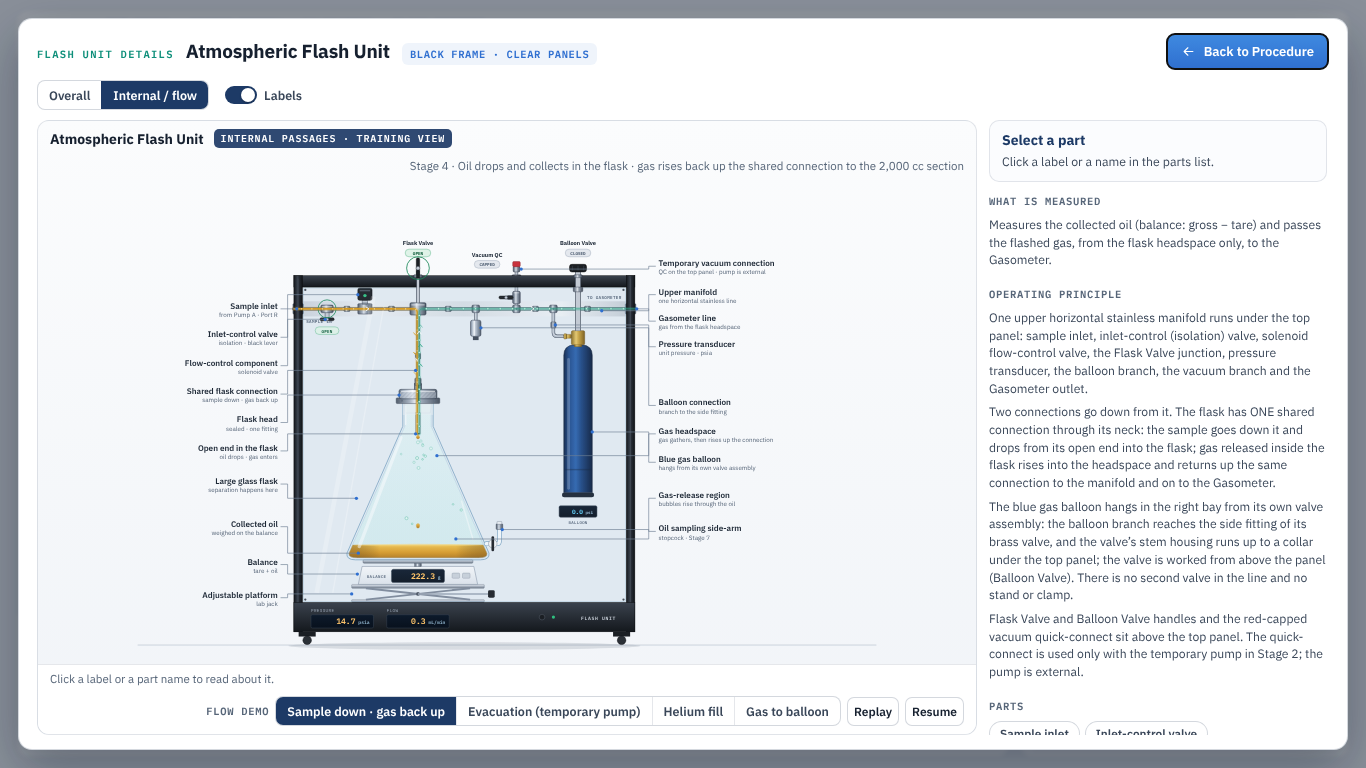
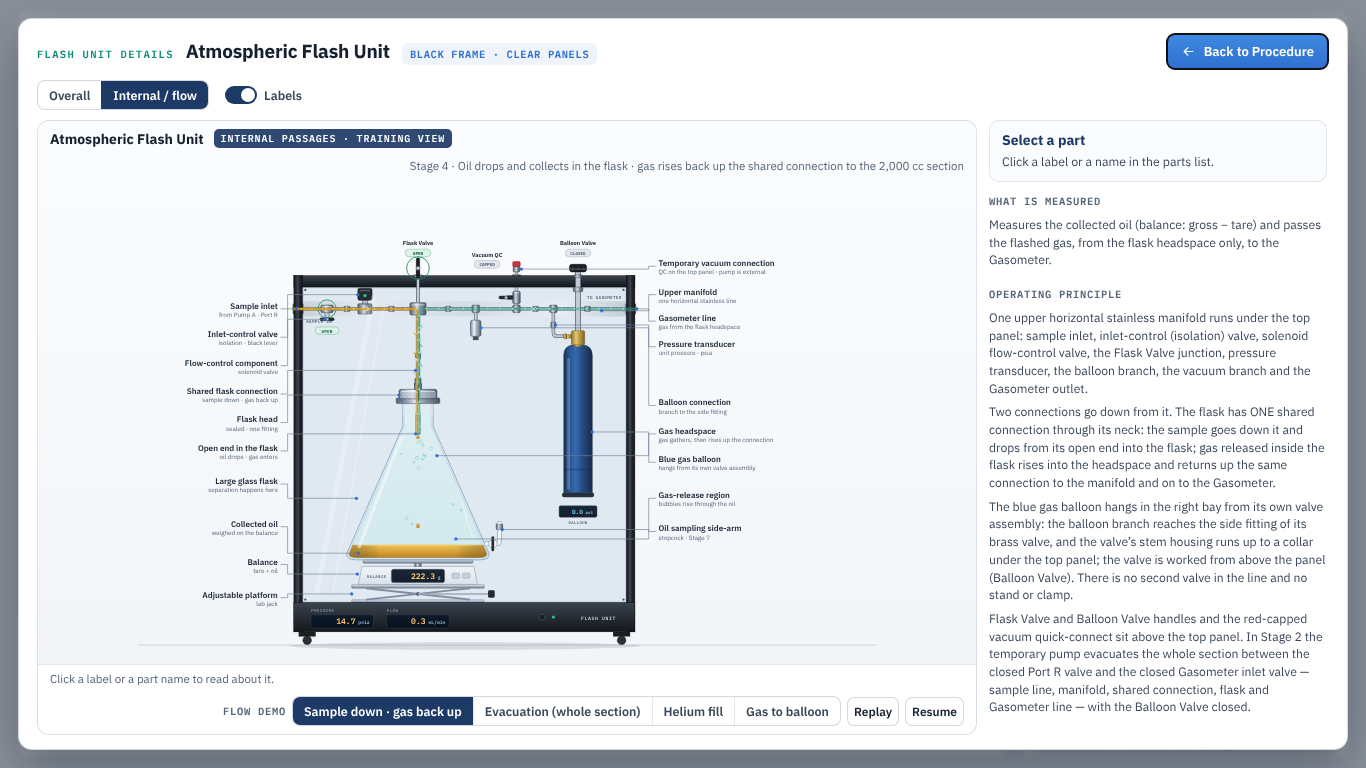
Flash prototype rev. F: Stage 2 evacuates the whole section between Port R and the Gasometer inlet valve
- Gasometer inlet isolation valve drawn on the external gas line (existing
  gasometer valve, open in Stages 3-5, closed in Stage 2)
- Evacuation lanes from the Port R line, the flask (shared connection),
  the Gasometer line and the balloon stub to the temporary pump; section
  tinted; both boundary valves marked; Balloon Valve stays closed
- Inlet-control and flow-control valves also open in Stage 2 so the sample
  line is evacuated; Pump A / Port R stay closed; values and timing unchanged
- Route Check, explanation and verify checks updated

Claude-Session: https://claude.ai/code/session_013YqmijwReojc95dHHUcSpf

Changed region(s): [[0.7072, 0.8125, 0.9531, 0.9688], [0.1537, 0.9062, 0.4612, 0.9375]]

diff --git a/prototypes/flash-unit/scene.js b/prototypes/flash-unit/scene.js
@@ -99,15 +99,23 @@
       routes.sample = { g: sg, kind: 'liq', gate: ['pumpA', 'inlet', 'flask'], kf: [[0.15, 0], [0.287, pre + vDist], [0.36, sg.L]] };
       var gOut = tgeo(Lo.fu, FU.RT.gOut);
       var gasG = chain([gOut, ext.gas, gaIn('2k')]);
-      routes.gas = { g: gasG, kind: 'gas', gate: ['flask', 'in2k', 'iso2k'], kf: [[0.40, 0], [0.47, gasG.L]] };
+      routes.gas = { g: gasG, kind: 'gas', gate: ['flask', 'gaso', 'in2k', 'iso2k'], kf: [[0.40, 0], [0.47, gasG.L]] };
       ['1k', '2k'].forEach(function (k) {
         var hg = chain([gaIn(k) && rgeo(gaIn(k)), ext.gas && rgeo(ext.gas), rgeo(gOut)]);
-        routes['he' + k] = { g: hg, kind: 'he', gate: ['flask', 'in' + k, 'iso' + k], kf: k === '1k' ? [[0.15, 0], [0.36, hg.L]] : [[0.39, 0], [0.42, hg.L]] };
+        routes['he' + k] = { g: hg, kind: 'he', gate: ['flask', 'gaso', 'in' + k, 'iso' + k], kf: k === '1k' ? [[0.15, 0], [0.36, hg.L]] : [[0.39, 0], [0.42, hg.L]] };
       });
-      var vg = chain([tgeo(Lo.fu, FU.RT.vac), Lo.pump ? hoseGeo(Lo) : null]);
-      routes.vac = { g: vg, kind: 'vac', gate: ['flask', 'vac'], need: 'vacHose', kf: [[0.15, 0], [0.38, vg.L]] };
+      // evacuation: every branch of the section between the closed Port R and Gasometer inlet valves
+      var hose = Lo.pump ? hoseGeo(Lo) : null, VK = [[0.15, 0], [0.32, 1]];
+      var vpieces = [
+        { g: chain([tgeo(Lo.fu, FU.RT.vac), hose]), gate: ['flask', 'vac'] },                                   // flask interior, up the shared connection
+        { g: chain([ext.sample, tgeo(Lo.fu, FU.RT.vacIn), hose]), gate: ['inlet', 'vac'] },                     // Port R outward side -> sample line -> manifold
+        { g: chain([gasVacPart(Lo, ext.gas), tgeo(Lo.fu, FU.RT.vacGas), hose]), gate: ['vac'] },               // Gasometer inlet valve -> line -> manifold
+        { g: chain([tgeo(Lo.fu, FU.RT.vacBal), hose]), gate: ['vac'] }                                          // balloon stub (balloon valve closed)
+      ];
+      routes.vac = { list: vpieces.map(function (v) { return { g: v.g, kind: 'vac', gate: v.gate, need: 'vacHose', kf: VK.map(function (k) { return [k[0], k[1] * v.g.L]; }) }; }) };
+      routes.vacSection = [ext.sample, tgeo(Lo.fu, FU.RT.vacIn), tgeo(Lo.fu, FU.RT.vac), gasVacPart(Lo, ext.gas), tgeo(Lo.fu, FU.RT.vacGas), tgeo(Lo.fu, FU.RT.vacBal)].filter(Boolean);
       var vesG = chain([gaIn('2k') && rgeo(gaIn('2k')), ext.gas && rgeo(ext.gas), tgeo(Lo.fu, FU.RT.ves)]);
-      routes.vessel = { g: vesG, kind: 'gas', gate: ['in2k', 'iso2k', 'vessel'], kf: [[0.15, 0], [0.40, vesG.L]] };
+      routes.vessel = { g: vesG, kind: 'gas', gate: ['gaso', 'in2k', 'iso2k', 'vessel'], kf: [[0.15, 0], [0.40, vesG.L]] };
     } else if (Lo.ga) {
       var g2 = gaIn('2k'), g1 = gaIn('1k');
       routes.gas = { g: g2, kind: 'gas', gate: ['in2k', 'iso2k'], kf: [[0.40, 0], [0.47, g2.L]] };
@@ -115,6 +123,8 @@
       routes.he2k = { g: rgeo(g2), kind: 'he', gate: ['in2k', 'iso2k'], kf: [[0.39, 0], [0.42, g2.L]] };
       routes.vessel = { g: rgeo(g2), kind: 'gas', gate: ['in2k', 'iso2k'], kf: [[0.15, 0], [0.40, g2.L]] };
     }
+    layers.push({ id: 'vsec', fn: function (V) { return vacSection(Lo, routes, V); } });
+    svg += g('vsec');
     layers.push({ id: 'lanes', fn: function (V) { return lanes(routes, V); } });
     svg += g('lanes');
     if (Lo.fu && Lo.dm) { layers.push({ id: 'syr', fn: function (V) { return syringeMarkup(Lo, V); } }); svg += g('syr'); }
@@ -170,11 +180,29 @@
     return s;
   }
 
+  // part of the Gasometer line on the evacuated side of the (closed) Gasometer inlet valve, flowing toward the Flash Unit
+  function gasVacPart(Lo, ext) {
+    if (!ext) return null;
+    if (!Lo.ga) return null;
+    var vp = tf(Lo.ga, GA.port.valve), pts = ext.pts.slice().reverse().filter(function (q) { return q[0] <= vp[0] - 12 * Lo.ga.s || q[1] !== vp[1]; });
+    return F.geo('', [[vp[0] - 12 * Lo.ga.s, vp[1]]].concat(pts));
+  }
+  // Stage 2: the evacuated section is tinted; the two closed boundary valves are marked
+  function vacSection(Lo, routes, V) {
+    var a = V.vacTint || 0, s = '';
+    if (a <= 0.01 || !routes.vacSection) return '';
+    routes.vacSection.forEach(function (g) { s += P(g.d, 'fill="none" stroke="#7d93b8" stroke-width="13" stroke-linecap="round" stroke-linejoin="round" opacity="' + r1(0.28 * a) + '"'); });
+    var mark = function (p, txt) { return R(p[0] - 46, p[1] + 16, 92, 15, 'rx="7.5" fill="#fff4e5" stroke="#b0701a" stroke-width=".8" opacity="' + r1(a) + '"') + T(p[0], p[1] + 26.5, txt, 'text-anchor="middle" ' + MONO + ' font-size="8.5" font-weight="700" fill="#8a5410" opacity="' + r1(a) + '"'); };
+    if (Lo.cell) { var pq = PA.port({ at: Lo.cell }, 'R'); s += mark([pq[0] + 54, pq[1]], 'BOUNDARY · SHUT'); }
+    if (Lo.ga) s += mark(tf(Lo.ga, GA.port.valve), 'BOUNDARY · SHUT');
+    return s;
+  }
+
   /* ------------------------------------------------------------ flow lanes */
   function lanes(routes, V) {
     var s = '', fl = V.flow || {}, vv = V.valve || {};
-    Object.keys(fl).forEach(function (k) {
-      var r = routes[k]; if (!r || !r.g) return;
+    var one = function (r, k) {
+      if (!r.g) return;
       var p = fl[k].p, a = fl[k].a;
       // a closed valve (or a disconnected temporary hose) anywhere on the route stops the flow
       r.gate.forEach(function (gk) { a *= ramp(0.35, 0.65, vv[gk] || 0); });
@@ -183,6 +211,10 @@
       if (p <= kf[0][0]) return;
       for (var i = 1; i < kf.length; i++) { if (p <= kf[i][0]) { d = kf[i - 1][1] + (kf[i][1] - kf[i - 1][1]) * (p - kf[i - 1][0]) / (kf[i][0] - kf[i - 1][0]); break; } d = kf[i][1]; }
       s += F.lane(r.g, d / r.g.L, V.t, a, r.kind);
+    };
+    Object.keys(fl).forEach(function (k) {
+      var r = routes[k]; if (!r) return;
+      (r.list || [r]).forEach(function (x) { if (x.g) one(x, k); });
     });
     return s;
   }

diff --git a/prototypes/flash-unit/app.js b/prototypes/flash-unit/app.js
@@ -10,7 +10,7 @@
   var EX = {
     0: { t: 'Flash unit idle', d: 'The flash unit is at atmospheric pressure, waiting for a verified sample.', w: 'Flashing an unverified sample would give a meaningless GOR.', o: 'Run Stage 1 to verify the sample in Pump A.' },
     1: { t: 'Stage 1 · Verify the stable sample', d: 'The charge in Pump A is re-checked as single phase at 80 cc and 5,000 psi.', w: 'The flash result is only valid if the feed is a homogeneous single-phase sample of known volume.', o: 'Reading step — no flow. "Stable · 80 cc @ 5,000 psi".' },
-    2: { t: 'Stage 2 · Vacuum the flash unit', d: 'A <b>portable vacuum pump</b> is placed beside the unit and its hose is connected to the vacuum quick-connect. The Flask Valve and the vacuum valve open and air is drawn from the flask up through the <b>shared flask connection</b> and along the manifold to the pump. After evacuation the valve closes, the hose is disconnected and the pump is removed.', w: 'Air left in the flask or lines would be counted as produced gas and would contaminate the GC analysis. The pump is temporary equipment, not part of the Flash Unit.', o: 'Unit pressure 14.7 → 0 psia; the inlet-control valve stays closed.' },
+    2: { t: 'Stage 2 · Vacuum the flash unit', d: 'A <b>portable vacuum pump</b> is placed beside the unit and its hose is connected to the vacuum quick-connect on the top panel. The <b>Port R valve</b> (PVT Cell) and the <b>Gasometer inlet valve</b> stay <b>closed</b> as the two boundaries. Between them the inlet-control, flow-control, Flask and vacuum valves open, so the whole section is evacuated: the sample line from Port R, the manifold, the shared connection, the flask and the line up to the Gasometer inlet valve. The Balloon Valve stays closed. After evacuation the vacuum valve closes first, then the hose is disconnected and the pump is removed.', w: 'Air left in the flask or lines would be counted as produced gas and would contaminate the GC analysis. The pump is temporary equipment, not part of the Flash Unit.', o: 'Section pressure 14.7 → 0 psia; nothing is drawn from the PVT Cell, the balloon or the Gasometer chambers.' },
     3: { t: 'Stage 3 · Fill the dead space with helium', d: 'The Gasometer inlet and isolation valves open. Helium held in the two chambers (1,000 cc section first, then the 2,000 cc section) flows along the gas line to the manifold and down the <b>shared flask connection</b> into the evacuated flask (Flask Valve open) until the unit reads atmospheric.', w: 'Helium is inert and not part of the reservoir fluid, so it can be identified and subtracted in the GC. It is not collected sample gas.', o: 'Gasometer helium 3,000 → 0 cc (1,000 + 2,000); unit pressure 0 → 14.7 psia.' },
     4: { t: 'Stage 4 · Flash the sample', d: 'Pump A displaces 50 cc through Port R. The sample passes the <b>inlet-control</b> and <b>flow-control</b> valves on the upper manifold, where its pressure is let down, and goes down the <b>shared flask connection</b> (Flask Valve open). Oil drops from its open end and <b>collects</b> at the bottom of the flask; gas released from the sample <b>rises</b> through the oil into the <b>headspace</b> and returns <b>up the same connection</b>, then along the manifold to the 2,000 cc section of the Gasometer.', w: 'Separation is shown inside the glass: oil stays in the flask, only gas goes back up. In the shared connection the oil (amber, left, arrows down) and the gas (green, right, arrows up) move in opposite directions. Collection and gas release run together.', o: 'Pump A 80 → 30 cc · balance 200 → 240 g (40 g oil) · Gasometer 0 → 400 cc (2,000 cc section).' },
     5: { t: 'Stage 5 · Collect gas into the balloon', d: 'The 2,000 cc section valves and the <b>Balloon Valve</b> (the balloon’s own brass valve, worked from above the top panel) open. Gas leaves the Gasometer along the gas line, runs along the upper manifold and down the balloon connection into the blue balloon. The Flask Valve and the inlet-control valve stay closed.', w: 'The balloon holds the gas sample for the chromatograph; the Gasometer keeps the remainder for the volume record.', o: 'Gasometer 400 → 150 cc; balloon 0 → 14.5 psi.' },
@@ -122,11 +122,12 @@
     var dmq = V.dmQ || 0;
     var rows = [
       ['Pump A → Flash Unit inlet', state(flowAt(4, FS.FXP.flow) && S.fPr < 0.36, op(v.pumpA), st >= 4)],
-      ['Manifold → flask (shared connection, down)', state(flowAt(4, 0.287), op(v.inlet), st >= 4)],
+      ['Manifold → flask (shared connection, down)', state(flowAt(4, 0.287), busy(4) && op(v.inlet), st >= 4)],
       ['Flask headspace → shared connection → Gasometer', state(flowAt(4, 0.40), busy(4) && op(v.in2k), st >= 4)],
       ['Gasometer helium → flask', state(flowAt(3, FS.FXP.flow), busy(3) && op(v.gaso), st >= 3)],
       ['Gasometer → balloon', state(flowAt(5, FS.FXP.flow), busy(5) && op(v.vessel), st >= 5)],
-      ['Flask vacuum port → temporary pump', vacRow],
+      ['Port R ⇢ line ⇢ flask ⇢ Gasometer inlet valve → temporary pump', vacRow],
+      ['Boundaries: Port R · Gasometer inlet valve · Balloon Valve', busy(2) ? ['ALL CLOSED', 'on'] : ['—', 'off']],
       ['Collected oil → Density Meter syringe', busy(7) && dmq < 0.54 ? ['ACTIVE', 'on'] : st >= 7 || dmq >= 0.54 ? ['COMPLETE', 'done'] : ['NOT STARTED', 'off']],
       ['Direct sample → Gasometer', ['NO SUCH PATH', 'off']]
     ];

diff --git a/prototypes/flash-unit/gasometer.js b/prototypes/flash-unit/gasometer.js
@@ -17,6 +17,7 @@
   var F = window.FX, R = F.R, C = F.C, E = F.E, P = F.P, L = F.L, T = F.T, MONO = F.MONO, SANS = F.SANS, r1 = F.r1;
 
   var G = {
+    inV: -48,                                                // Gasometer inlet isolation valve on the external gas line
     W: 520, H: 860, foot: 840, supY: 254, valveY: 292, isoY: 330,
     ch0: 372, ch1: 744,
     sec: [
@@ -30,7 +31,7 @@
   /* routes: external inlet (left side) -> supply line -> section inlet valve -> junction -> isolation -> chamber top */
   var RT = {};
   G.sec.forEach(function (s) {
-    RT['in' + s.k] = F.path(0, G.supY).H(s.inX - 8).turn(s.inX, G.supY, s.inX, G.valveY, 8).V(G.valveY - 8).turn(s.inX, G.valveY, s.cx, G.valveY, 8)
+    RT['in' + s.k] = F.path(G.inV - 26, G.supY).H(s.inX - 8).turn(s.inX, G.supY, s.inX, G.valveY, 8).V(G.valveY - 8).turn(s.inX, G.valveY, s.cx, G.valveY, 8)
       .H(s.cx - 8).turn(s.cx, G.valveY, s.cx, G.ch0 + 4, 8).V(G.ch0 + 4).end();
     RT['out' + s.k] = F.geo('', RT['in' + s.k].pts.slice().reverse());
   });
@@ -72,6 +73,7 @@
     // external inlet bulkhead (left side) + supply line
     s += F.tube(F.path(0, G.supY).H(G.sec[1].inX).end());
     G.sec.forEach(function (sc) { s += F.tube(F.path(sc.inX, G.supY).V(G.valveY - 8).turn(sc.inX, G.valveY, sc.cx, G.valveY, 8).H(sc.cx - 8).turn(sc.cx, G.valveY, sc.cx, G.ch0, 8).V(G.ch0).end()); s += F.tee(sc.inX, G.supY); });
+    s += F.tube(F.path(G.inV - 26, G.supY).H(-8).end());
     s += R(-8, G.supY - 11, 14, 22, 'rx="2" fill="url(#ppSteelD)" stroke="#2a3443" stroke-width=".9"') + F.nut(-12, G.supY, 'h', .9);
     s += T(12, G.supY - 14, 'GAS IN', MONO + ' font-size="8.5" font-weight="700" letter-spacing=".6" fill="#33404f"');
     return s;
@@ -136,6 +138,7 @@
   }
   function valves(V) {
     var s = '', v = V.valve || {};
+    s += F.valve(G.inV, G.supY, 'h', v.gaso || 0, { side: 'up', tag: [0, -42] });
     G.sec.forEach(function (sc) {
       s += F.valve(sc.inX, (G.supY + G.valveY) / 2 + 2, 'v', v['in' + sc.k] || 0, { side: 'right', ring: true });
       s += F.valve(sc.ventX, G.valveY, 'h', 0, { side: 'down' });
@@ -157,12 +160,13 @@
   }
 
   var LABELS = [
-    { id: 'inlets', n: 'Inlets', s: 'gas in · section inlet valves', a: [-10, G.supY], p: [-50, G.supY], an: 'end' },
-    { id: 'isolation', n: 'Isolation valves', s: 'one per chamber', a: [G.sec[0].cx - 10, G.isoY], p: [-50, G.isoY + 20], an: 'end' },
-    { id: 'chamber2k', n: '2,000 cc chamber', s: 'used first', a: [G.sec[0].cx - G.sec[0].hw - 30, 450], p: [-50, 440], an: 'end' },
-    { id: 'chambers', n: 'Transparent chambers', s: 'gas column + boundary', a: [G.sec[0].cx - G.sec[0].hw, 560], p: [-50, 540], an: 'end' },
-    { id: 'scales', n: 'Graduated scales', s: 'cc', a: [G.sec[0].cx - G.sec[0].hw - 20, 650], p: [-50, 640], an: 'end' },
-    { id: 'knobs', n: 'Lower control knobs', s: 'manual volume control', a: [G.sec[0].cx - 26, 798], p: [-50, 790], an: 'end' },
+    { id: 'mainInlet', n: 'Gasometer inlet valve', s: 'isolates the meter · closed in Stage 2', a: [G.inV, G.supY - 22], p: [-90, 190], an: 'end' },
+    { id: 'inlets', n: 'Inlets', s: 'gas in · section inlet valves', a: [-10, G.supY + 8], p: [-90, G.supY + 30], an: 'end' },
+    { id: 'isolation', n: 'Isolation valves', s: 'one per chamber', a: [G.sec[0].cx - 10, G.isoY], p: [-90, G.isoY + 50], an: 'end' },
+    { id: 'chamber2k', n: '2,000 cc chamber', s: 'used first', a: [G.sec[0].cx - G.sec[0].hw - 30, 450], p: [-90, 440], an: 'end' },
+    { id: 'chambers', n: 'Transparent chambers', s: 'gas column + boundary', a: [G.sec[0].cx - G.sec[0].hw, 560], p: [-90, 540], an: 'end' },
+    { id: 'scales', n: 'Graduated scales', s: 'cc', a: [G.sec[0].cx - G.sec[0].hw - 20, 650], p: [-90, 640], an: 'end' },
+    { id: 'knobs', n: 'Lower control knobs', s: 'manual volume control', a: [G.sec[0].cx - 26, 798], p: [-90, 790], an: 'end' },
     { id: 'volDisp', n: 'Volume displays', s: 'cc per section', a: [G.sec[1].x1 - 16, 68], p: [560, 60], an: 'start' },
     { id: 'tempDisp', n: 'Temperature displays', s: 'example ambient value', a: [G.sec[1].x1 - 16, 113], p: [560, 116], an: 'start' },
     { id: 'gauges', n: 'Compound gauges', s: 'vacuum | pressure', a: [(G.sec[1].x0 + G.sec[1].x1) / 2 + 48, 186], p: [560, 186], an: 'start' },
@@ -174,5 +178,5 @@
   // split of the existing total reading across the two sections (2,000 cc first)
   function split(total) { var a = Math.min(Math.max(total, 0), 2000); return { k2: a, k1: Math.max(0, total - 2000) }; }
 
-  window.Gasometer = { G: G, RT: RT, layers: layers, LABELS: LABELS, split: split, port: { gas: [-20, G.supY] } };
+  window.Gasometer = { G: G, RT: RT, layers: layers, LABELS: LABELS, split: split, port: { gas: [G.inV - 26, G.supY], valve: [G.inV, G.supY] } };
 })();

diff --git a/prototypes/flash-unit/details.js b/prototypes/flash-unit/details.js
@@ -17,13 +17,13 @@
       eyebrow: 'Flash Unit Details', name: 'Atmospheric Flash Unit', variant: 'Black frame · clear panels', mod: 'FlashUnit', mode: 'fu',
       views: [['overall', 'Overall'], ['internal', 'Internal / flow']], viewArg: { overall: 'exterior', internal: 'internal' },
       vb: [-330, -200, 1560, 1020], ls: 1.15,
-      demos: [[4, 'Sample down · gas back up'], [2, 'Evacuation (temporary pump)'], [3, 'Helium fill'], [5, 'Gas to balloon']],
+      demos: [[4, 'Sample down · gas back up'], [2, 'Evacuation (whole section)'], [3, 'Helium fill'], [5, 'Gas to balloon']],
       measures: 'Measures the collected oil (balance: gross − tare) and passes the flashed gas, from the flask headspace only, to the Gasometer.',
       principle: [
         'One upper horizontal stainless manifold runs under the top panel: sample inlet, inlet-control (isolation) valve, solenoid flow-control valve, the Flask Valve junction, pressure transducer, the balloon branch, the vacuum branch and the Gasometer outlet.',
         'Two connections go down from it. The flask has ONE shared connection through its neck: the sample goes down it and drops from its open end into the flask; gas released inside the flask rises into the headspace and returns up the same connection to the manifold and on to the Gasometer.',
         'The blue gas balloon hangs in the right bay from its own valve assembly: the balloon branch reaches the side fitting of its brass valve, and the valve’s stem housing runs up to a collar under the top panel; the valve is worked from above the panel (Balloon Valve). There is no second valve in the line and no stand or clamp.',
-        'Flask Valve and Balloon Valve handles and the red-capped vacuum quick-connect sit above the top panel. The quick-connect is used only with the temporary pump in Stage 2; the pump is external.'
+        'Flask Valve and Balloon Valve handles and the red-capped vacuum quick-connect sit above the top panel. In Stage 2 the temporary pump evacuates the whole section between the closed Port R valve and the closed Gasometer inlet valve — sample line, manifold, shared connection, flask and Gasometer line — with the Balloon Valve closed.'
       ],
       parts: {
         sampleIn: { n: 'Sample inlet', d: 'Bulkhead on the left post where the sample line from the PVT Cell (Pump A through the Port R valve) enters the manifold.', in: B },
@@ -69,6 +69,7 @@
         volDisp: { n: 'Volume displays', d: 'One per section, in cc. Left + right = total Gasometer reading.', in: B },
         tempDisp: { n: 'Temperature displays', d: 'One per section, °C. The simulator does not carry a gasometer temperature, so an example ambient value (22.0 °C) is shown.', in: B },
         gauges: { n: 'Compound gauges', d: 'Vacuum and pressure scale; the needle stays near atmospheric while the section measures.', in: B },
+        mainInlet: { n: 'Gasometer inlet valve', d: 'Isolation valve on the external gas line at the Gasometer. Open in Stages 3–5; closed in Stage 2 so the evacuation stops here and the measuring chambers are not evacuated.', in: B },
         inlets: { n: 'Inlets', d: 'External gas connection and each section’s inlet valve (black handle).', in: B },
         vents: { n: 'Vents', d: 'Vent valve per section to atmosphere; closed throughout this procedure.', in: B },
         isolation: { n: 'Isolation valves', d: 'Connect each chamber to its section line; open only while that section is measuring.', in: B },

diff --git a/prototypes/flash-unit/sim.js b/prototypes/flash-unit/sim.js
@@ -25,13 +25,13 @@
   var ACTIONS = ['Confirm Stable Sample', 'Vacuum Flash Unit', 'Fill with Helium', 'Start Flash', 'Collect Gas into Balloon', 'Collect Oil and Gas', 'Measure Density & API'];
   var PHASES = ['PREPARING', 'VALVE OPEN', 'FLOWING', 'RECEIVING', 'TRANSFER COMPLETE'];
   var TXT = {
-    2: ['Temporary vacuum pump connected · vacuum valve closed', 'Vacuum valve opening', 'Air drawn from the flask up the shared connection to the temporary vacuum pump', 'Air drawn from the flask up the shared connection to the temporary vacuum pump', 'Vacuum valve closed · Flash Unit at 0 psia'],
+    2: ['Pump connected · Port R and Gasometer inlet valves closed (boundaries)', 'Vacuum, Flask and inlet valves opening', 'Evacuating Port R → line → manifold → flask → line to the Gasometer inlet valve', 'Evacuating Port R → line → manifold → flask → line to the Gasometer inlet valve', 'Vacuum valve closed · whole section at 0 psia'],
     3: ['Preparing helium transfer · gasometer valves closed', 'Gasometer inlet and isolation valves opening', 'Helium leaving the gasometer (1,000 cc section first) along the gas line', 'Helium entering the flask down the shared connection', 'Gasometer valves closed · helium charged'],
     4: ['Preparing transfer · Pump A and inlet-control valves closed', 'Pump A, Port R, inlet-control, flow-control and Flask valves opening', 'Sample travelling from Pump A to the flask inlet', 'Oil drops and collects in the flask · gas rises back up the shared connection to the 2,000 cc section', 'Valves closed · 50 cc flashed'],
     5: ['Preparing collection · Balloon Valve closed', 'Gasometer valves and the Balloon Valve opening', 'Gas leaving the 2,000 cc section along the gas line', 'Gas entering the blue balloon', 'Valves closed · balloon filled']
   };
   var DONE = {                                                // Main.js FX_DONE
-    2: 'Flash Unit evacuated · 0.0 psia',
+    2: 'Section Port R → Gasometer inlet valve evacuated · 0.0 psia',
     3: 'Helium charged · 14.7 psia · Gasometer empty',
     4: '50 cc flashed · 40 g oil · 400 cc gas',
     5: 'Balloon 250 cc · 14.5 psi · 150 cc left in gasometer'
@@ -144,7 +144,7 @@
     V.gasoVol = total; V.gasoMode = usingGas ? 'gas' : 'he'; V.gaso = S.fGaso; V.heGas = S.fHeGas; V.gaso2k = sp.k2; V.gaso1k = sp.k1; V.gasoT = GASO_T;
     var sec = n === 3 && S.fHeGas > 2000 ? '1k' : '2k', g = act([3, 4, 5]);
     V.gasoSec = sec;
-    V.valve = { pumpA: act([4]), inlet: act([4]), flask: act([2, 3, 4]), vac: act([2]), vessel: act([5]),
+    V.valve = { pumpA: act([4]), inlet: act([2, 4]), flask: act([2, 3, 4]), vac: act([2]), vessel: act([5]),
       in2k: sec === '2k' ? g : 0, iso2k: sec === '2k' ? g : 0, in1k: sec === '1k' ? g : 0, iso1k: sec === '1k' ? g : 0, gaso: g };
     // temporary vacuum pump (Stage 2 only): wheeled in, hose attached, then detached and removed
     var qq = S.fQ, c0 = n === 2 ? CONN / S.fDur : 0;

diff --git a/prototypes/flash-unit/tools/verify.js b/prototypes/flash-unit/tools/verify.js
@@ -23,6 +23,16 @@ const { chromium } = require('playwright');
     out.gasEndsIn2000ccChamber = Math.abs(gEnd[0] - s2.cx) < 1 && Math.abs(gEnd[1] - Gasometer.G.ch0 - 4) < 1;
     const pr = PVTCellArt.port({ at: sc.Lo.cell }, 'R');
     out.sampleRoutePassesPortR = R.sample.g.pts.some(q => Math.hypot(q[0] - pr[0], q[1] - pr[1]) < .6);
+    // Stage 2: evacuation covers the whole section; boundaries closed; balloon closed; nothing drawn from cell, balloon or chambers
+    const s2v = FlashSim.create(); s2v.jump([1]); s2v.start(2); s2v.tick(6); const V2 = s2v.vm(6), vv = V2.valve;
+    out.stage2Boundaries = { portR_pumpA: vv.pumpA, gasometerInlet: vv.gaso, balloon: vv.vessel, flask: vv.flask > .5, inlet: vv.inlet > .5, vac: vv.vac > .5 };
+    const vl = R.vac.list, vends = vl.map(x => x.g.end), starts = vl.map(x => x.g.start);
+    out.stage2AllBranchesEndAtPump = vends.every(e => Math.hypot(e[0] - vends[0][0], e[1] - vends[0][1]) < 1);
+    const pr0 = PVTCellArt.port({ at: sc.Lo.cell }, 'R'), gv = [sc.Lo.ga.x + Gasometer.port.valve[0] * sc.Lo.ga.s, sc.Lo.ga.y + Gasometer.port.valve[1] * sc.Lo.ga.s];
+    out.stage2StartsAtPortR = starts.some(q => Math.hypot(q[0] - pr0[0], q[1] - pr0[1]) < 1);
+    out.stage2StartsAtGasometerInletValve = starts.some(q => Math.abs(q[1] - gv[1]) < 1 && gv[0] - q[0] > 0 && gv[0] - q[0] < 12);
+    out.stage2StartsInFlask = starts.some(q => { const l = loc(q); return Math.abs(l[0] - FU.RT.shared.x) < 4 && Math.abs(l[1] - G.tip) < 1; });
+    out.stage2NothingBeyondBoundaries = vl.every(x => x.g.pts.every(q => q[0] >= pr0[0] - 1 && q[0] <= gv[0]));
     const lanes = (V) => { sc.update(V); return host.querySelector('[data-l="lanes"]').innerHTML.split('class="lane"').length - 1; };
     const sim = FlashSim.create(); sim.jump([1, 2, 3]); sim.start(4); sim.tick(6);
     let V = sim.vm(6); out.stage4Lanes = lanes(V); V.valve.inlet = 0; out.stage4LanesInletClosed = lanes(V);

diff --git a/prototypes/flash-unit/flash-unit.js b/prototypes/flash-unit/flash-unit.js
@@ -73,6 +73,14 @@
       .H(g.ves.x).V(g.ves.y - Parts.VG.h + 4).end();
   })();
   RT.heIn = F.geo('', RT.gOut.pts.slice().reverse());
+  // Stage 2 evacuation covers the whole section between the closed boundary valves (Port R at the PVT Cell,
+  // Gasometer inlet valve): each connected branch is drawn toward the vacuum branch and up to the QC.
+  (function () {
+    var g = G, M = g.M, up = function (p) { return p.turn(g.vacX, M, g.vacX, g.vacY, 8).V(g.vacY - 14).end(); };
+    RT.vacIn = up(F.path(0, M).H(g.vacX - 8));                                     // sample line + manifold (inlet valves open)
+    RT.vacGas = up(F.path(g.W, M).H(g.vacX + 8));                                  // Gasometer line up to the Flash Unit
+    RT.vacBal = up(F.path(g.vesSide[0], g.vesSide[1]).H(g.balT - 8).turn(g.balT, g.vesSide[1], g.balT, M, 8).V(M + 8).turn(g.balT, M, g.vacX, M, 8).H(g.vacX + 8));   // balloon stub up to its CLOSED valve
+  })();
   RT.shared = { x: cx, y0: G.M, y1: G.tip };
 
   /* ------------------------------------------------------------ static parts */

diff --git a/prototypes/flash-unit/README.md b/prototypes/flash-unit/README.md
@@ -14,6 +14,12 @@ No build step. `build-preview.py OUT.html` bundles the page into one file for th
 
 Review links: `?stage=n` (end of stage n) · `&run=1&t=<s>&hold=1` (run stage n, fast-forward, pause) · `&view=auto|system|fu|ga|dm` · `&labels=0` · `&details=fu|ga|dm&dview=overall|internal&demo=<stage>&dt=<s>`.
 
+## Rev. F — Stage 2 evacuates the whole connected section
+
+- Boundaries: the **Port R valve** (PVT Cell) and a **Gasometer inlet valve** on the external gas line. That valve is the existing gasometer valve, open in Stages 3–5 as before. Both are closed in Stage 2 and marked "BOUNDARY · SHUT".
+- Between them, the inlet-control, flow-control, Flask and vacuum valves are open. The Balloon Valve stays closed. Evacuation flows from four branches to the pump: the sample line from Port R, the flask up the shared connection, the Gasometer line, and the balloon stub up to its closed valve. The whole section is tinted while evacuating.
+- Valve-state change: the inlet-control and flow-control valves now also open in Stage 2 (before, only in Stage 4) so the sample line is evacuated. Pump A and Port R stay closed. Values and timing are unchanged; the vacuum valve closes before the hose is disconnected.
+
 ## Rev. E — balloon mounting and vacuum quick-connect
 
 - The balloon's stand, ring clamps and post brackets are removed. The balloon hangs from its own brass valve assembly: the manifold branch goes to the side fitting, and the valve's stem housing rises to a collar under the top panel and the Balloon Valve handle above it. The body is clear of the lower deck.
